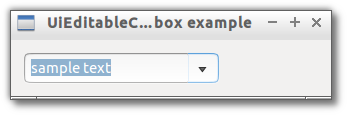
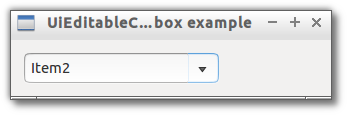
new docs [skip ci]

Changed region(s): [[0.0862, 0.4914, 0.3161, 0.6724]]

diff --git a/examples/widgets/showUiGrid.js b/examples/widgets/showUiGrid.js
@@ -1,13 +1,21 @@
 
-var libui = require('../index');
+var libui = require('../../index');
 
 libui.Ui.init();
 var win = new libui.UiWindow('UiGrid example', 320, 60, true);
 win.margined = true;
 
-var widget = new libui.UiGrid();
-widget.text = 'sample text';
-win.setChild(widget);
+var grid = new libui.UiGrid();
+grid.padded = true;
+grid.append(new libui.UiLabel('name'), 0, 0, 2, 1, 0, 0, 0, 1);
+grid.append(new libui.UiLabel('surname'), 0, 1, 2, 1, 0, 0, 0, 1);
+grid.append(new libui.UiLabel('age'), 0, 2, 2, 1, 0, 0, 0, 1);
+
+grid.append(new libui.UiEntry(), 2, 0, 2, 1, 0, 0, 0, 1);
+grid.append(new libui.UiEntry(), 2, 1, 3, 1, 0, 0, 0, 1);
+grid.append(new libui.UiEntry(), 2, 2, 4, 2, 0, 0, 0, 1);
+
+win.setChild(grid);
 
 win.onClosing(function () {
 	win.close();

diff --git a/examples/widgets/showUiHorizontalBox.js b/examples/widgets/showUiHorizontalBox.js
@@ -2,13 +2,13 @@
 var libui = require('../../index');
 
 libui.Ui.init();
-var win = new libui.UiWindow('UiVerticalSeparator example', 320, 60, true);
+var win = new libui.UiWindow('UiHorizontalBox example', 320, 60, true);
 win.margined = true;
 
 var widget = new libui.UiHorizontalBox();
 widget.padded = true;
 widget.append(new libui.UiMultilineEntry(), false);
-widget.append(new libui.UiVerticalSeparator(), false);
+widget.append(new libui.UiMultilineEntry(), false);
 widget.append(new libui.UiMultilineEntry(), false);
 win.setChild(widget);
 

diff --git a/examples/widgets/showUiVerticalBox.js b/examples/widgets/showUiVerticalBox.js
@@ -2,13 +2,13 @@
 var libui = require('../../index');
 
 libui.Ui.init();
-var win = new libui.UiWindow('UiHorizontalSeparator example', 320, 60, true);
+var win = new libui.UiWindow('UiVerticalBox example', 320, 60, true);
 win.margined = true;
 
 var widget = new libui.UiVerticalBox();
 widget.padded = true;
 widget.append(new libui.UiEntry(), false);
-widget.append(new libui.UiHorizontalSeparator(), false);
+widget.append(new libui.UiEntry(), false);
 widget.append(new libui.UiEntry(), false);
 win.setChild(widget);
 

diff --git a/examples/widgets/showUiForm.js b/examples/widgets/showUiForm.js
@@ -1,12 +1,15 @@
 
-var libui = require('../index');
+var libui = require('../../index');
 
 libui.Ui.init();
 var win = new libui.UiWindow('UiForm example', 320, 60, true);
 win.margined = true;
 
 var widget = new libui.UiForm();
-widget.text = 'sample text';
+widget.padded = true;
+widget.append('name', new libui.UiEntry(), false);
+widget.append('surname', new libui.UiEntry(), false);
+widget.append('age', new libui.UiEntry(), false);
 win.setChild(widget);
 
 win.onClosing(function () {

diff --git a/examples/widgets/showUiSlider.js b/examples/widgets/showUiSlider.js
@@ -1,13 +1,18 @@
 
-var libui = require('../index');
+var libui = require('../../index');
 
 libui.Ui.init();
 var win = new libui.UiWindow('UiSlider example', 320, 60, true);
 win.margined = true;
 
 var widget = new libui.UiSlider();
-widget.text = 'sample text';
-win.setChild(widget);
+widget.value = 50;
+
+var cnt = new libui.UiVerticalBox();
+cnt.padded = true;
+cnt.append(widget, false);
+
+win.setChild(cnt);
 
 win.onClosing(function () {
 	win.close();

diff --git a/examples/widgets/showUiEditableCombobox.js b/examples/widgets/showUiEditableCombobox.js
@@ -1,12 +1,16 @@
 
-var libui = require('../index');
+var libui = require('../../index');
 
 libui.Ui.init();
 var win = new libui.UiWindow('UiEditableCombobox example', 320, 60, true);
 win.margined = true;
 
 var widget = new libui.UiEditableCombobox();
-widget.text = 'sample text';
+
+widget.append('Item1');
+widget.append('Item2');
+widget.append('Item3');
+
 win.setChild(widget);
 
 win.onClosing(function () {

diff --git a/examples/widgets/showUiRadioButtons.js b/examples/widgets/showUiRadioButtons.js
@@ -1,12 +1,14 @@
 
-var libui = require('../index');
+var libui = require('../../index');
 
 libui.Ui.init();
 var win = new libui.UiWindow('UiRadioButtons example', 320, 60, true);
 win.margined = true;
 
 var widget = new libui.UiRadioButtons();
-widget.text = 'sample text';
+widget.append('Item1');
+widget.append('Item2');
+widget.append('Item3');
 win.setChild(widget);
 
 win.onClosing(function () {

diff --git a/examples/widgets/showUiCombobox.js b/examples/widgets/showUiCombobox.js
@@ -1,12 +1,14 @@
 
-var libui = require('../index');
+var libui = require('../../index');
 
 libui.Ui.init();
 var win = new libui.UiWindow('UiCombobox example', 320, 60, true);
 win.margined = true;
 
 var widget = new libui.UiCombobox();
-widget.text = 'sample text';
+widget.append('Item1');
+widget.append('Item2');
+widget.append('Item3');
 win.setChild(widget);
 
 win.onClosing(function () {

diff --git a/examples/widgets/showUiProgressBar.js b/examples/widgets/showUiProgressBar.js
@@ -1,12 +1,12 @@
 
-var libui = require('../index');
+var libui = require('../../index');
 
 libui.Ui.init();
 var win = new libui.UiWindow('UiProgressBar example', 320, 60, true);
 win.margined = true;
 
 var widget = new libui.UiProgressBar();
-widget.text = 'sample text';
+widget.value = 50;
 win.setChild(widget);
 
 win.onClosing(function () {

diff --git a/examples/widgets/showUiDateTimePicker.js b/examples/widgets/showUiDateTimePicker.js
@@ -1,5 +1,5 @@
 
-var libui = require('../index');
+var libui = require('../../index');
 
 libui.Ui.init();
 var win = new libui.UiWindow('UiDateTimePicker example', 320, 60, true);

diff --git a/examples/widgets/showUiMultilineEntry.js b/examples/widgets/showUiMultilineEntry.js
@@ -1,5 +1,5 @@
 
-var libui = require('../index');
+var libui = require('../../index');
 
 libui.Ui.init();
 var win = new libui.UiWindow('UiMultilineEntry example', 320, 60, true);

diff --git a/examples/widgets/showUiColorButton.js b/examples/widgets/showUiColorButton.js
@@ -1,5 +1,5 @@
 
-var libui = require('../index');
+var libui = require('../../index');
 
 libui.Ui.init();
 var win = new libui.UiWindow('UiColorButton example', 320, 60, true);
